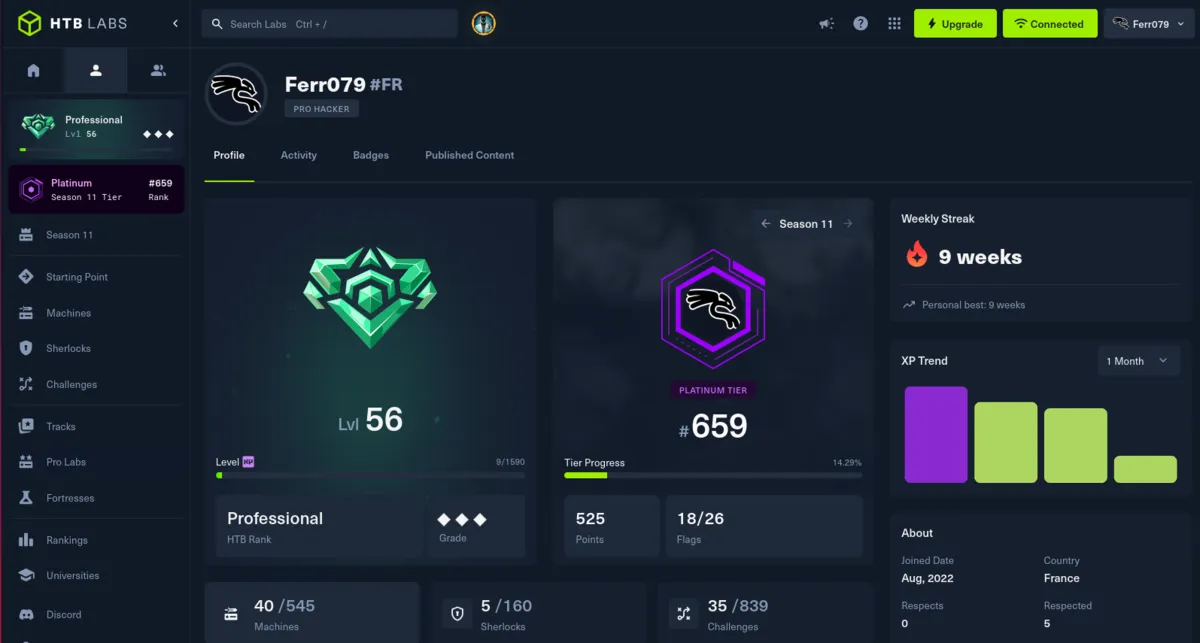
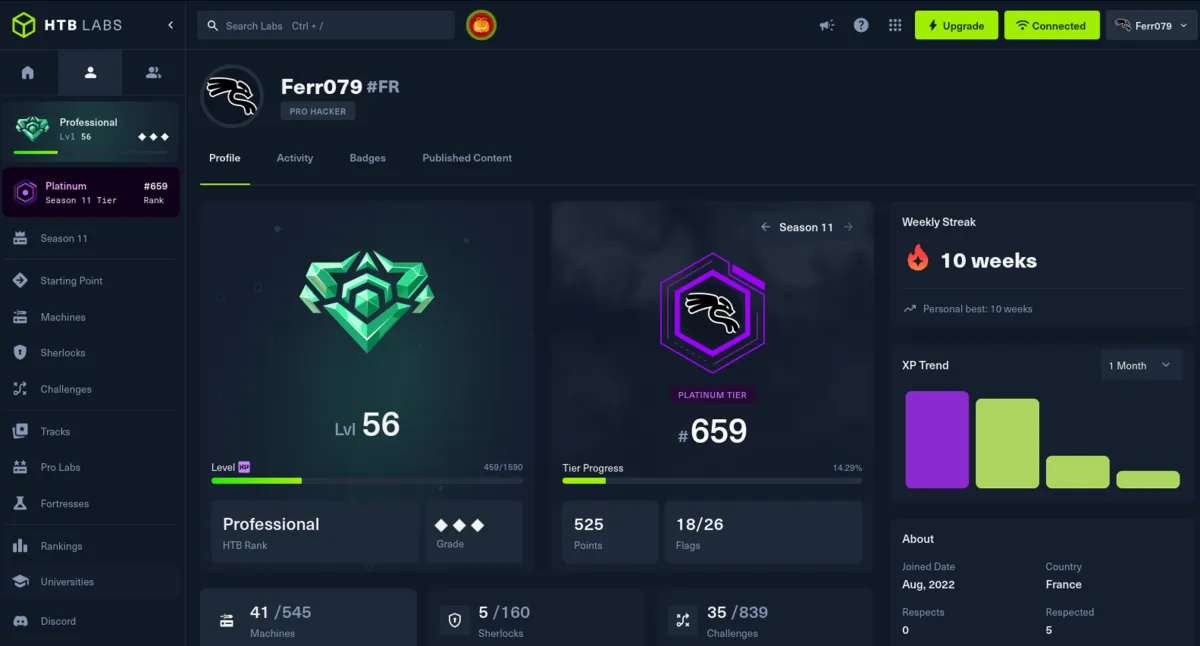
ctf: MAJ stats HTB — screenshot 21/07 (10 sem.) + fallbacks alignés KV
- htb-dashboard.webp : capture 21/07 (streak 10 sem., Lvl 56 Professional,
  Season 11 Platinum #659, Points 525, Sherlocks 5, Challenges 35) ; ?v=20260721
- fallbacks alignés sur le KV live (source de vérité) : build-stats.ts,
  ctf.astro + fr/ctf.astro (inline), chat.ts, about.astro + fr/about.astro
  → ranking #758, machines 41, user owns 44, flags 85
- captions EN/FR : série 9 → 10 semaines
- CLAUDE.md : table Profiles à jour

Les briques HTB de /ctf restent dynamiques (KV, kv-push ~5 min) ; ce commit
ne touche que le repli statique + le screenshot embarqué.

diff --git a/src/lib/build-stats.ts b/src/lib/build-stats.ts
@@ -15,7 +15,7 @@
  * snapshot so a build never ships empty numbers.
  */
 
-// Last-known snapshot (2026-07-18). Only used if the build can't reach /api/stats.
+// Last-known snapshot (2026-07-21). Only used if the build can't reach /api/stats.
 const FALLBACK: Record<string, string | number> = {
   claude_hours: 1432,
   claude_cache_hit: 97.3,
@@ -26,11 +26,11 @@ const FALLBACK: Record<string, string | number> = {
   uptime_pct: 100,
   forgejo_commits_30d: 1257,
   proxmox_nodes: 4,
-  htb_flags: 82,
+  htb_flags: 85,
   htb_rank: 'Pro Hacker',
-  htb_ranking: 780,
-  htb_system_owns: 39,
-  htb_user_owns: 43,
+  htb_ranking: 758,
+  htb_system_owns: 41,
+  htb_user_owns: 44,
   rootme_score: 1005,
   rootme_validations: 73,
   rootme_position: 16420,

diff --git a/src/pages/api/chat.ts b/src/pages/api/chat.ts
@@ -34,7 +34,7 @@ async function checkRateLimit(ip: string): Promise<{ allowed: boolean; retryAfte
 // moment de la requête (l'équivalent Worker d'un <DynNum>) ; les fallbacks ne
 // servent que si le KV est injoignable. rootme_validations n'est pas dans le KV.
 async function liveCtfStats(): Promise<Record<string, string>> {
-  const fb: Record<string, string> = { HTB_RANK: '819', HTB_RANK_NAME: 'Pro Hacker', HTB_FLAGS: '81', HTB_MACHINES: '39', ROOTME_SCORE: '1005' };
+  const fb: Record<string, string> = { HTB_RANK: '758', HTB_RANK_NAME: 'Pro Hacker', HTB_FLAGS: '85', HTB_MACHINES: '41', ROOTME_SCORE: '1005' };
   try {
     const stats = await env.STATS_KV.get('stats', { type: 'json' }) as Record<string, unknown> | null;
     const num = (v: unknown, f: string) => { const n = Number(v); return Number.isFinite(n) && n > 0 ? String(n) : f; };

diff --git a/CLAUDE.md b/CLAUDE.md
@@ -132,7 +132,7 @@ git push origin main   # origin = Forgejo (org pixelium) ; push-mirror → GitHu
 
 | Platform | Username | Current stats |
 |---|---|---|
-| Hack The Box | Ferr079 | Pro Hacker rank, #767, 40 system + 43 user owns, 83 flags (fallback ctf.astro aligné sur le KV `/api/stats` — cf [[reference_ctf_htb_stats_freshness]], garder ce fallback à jour à la main). Lvl 56 « Professional » · Season 11 Platinum tier #659 · streak 9 sem. (screenshot `htb-dashboard.webp` MAJ 2026-07-19 = Pro Hacker/Lvl 56/Platinum #659/9-week ; `?v=20260719`). ⚠️ `/profile/activity` **supprimé par HTB 2026** (HTTP 400) → `flags = user_owns + system_owns`, ne PAS ré-ajouter d'appel activity. NB : `ranking` = rang **global** HTB (≠ `#659` = rang de saison du screenshot) |
+| Hack The Box | Ferr079 | Pro Hacker rank, #758, 41 system + 44 user owns, 85 flags (fallback ctf.astro aligné sur le KV `/api/stats` — cf [[reference_ctf_htb_stats_freshness]], garder ce fallback à jour à la main). Lvl 56 « Professional » · Season 11 Platinum tier #659 · streak 10 sem. (screenshot `htb-dashboard.webp` MAJ 2026-07-21 = Pro Hacker/Lvl 56/Platinum #659/10-week ; `?v=20260721`). ⚠️ `/profile/activity` **supprimé par HTB 2026** (HTTP 400) → `flags = user_owns + system_owns`, ne PAS ré-ajouter d'appel activity. NB : `ranking` = rang **global** HTB (≠ `#659` = rang de saison du screenshot) |
 | TryHackMe | ferr0 | Top 15%, 35 rooms, 7 badges |
 | Root-Me | Ferr0 | 1005 pts, 73 challenges (fallback ctf.astro ; live au build, même repli intermittent que HTB) |
 | GitHub | ferr079 | github.com/ferr079 |